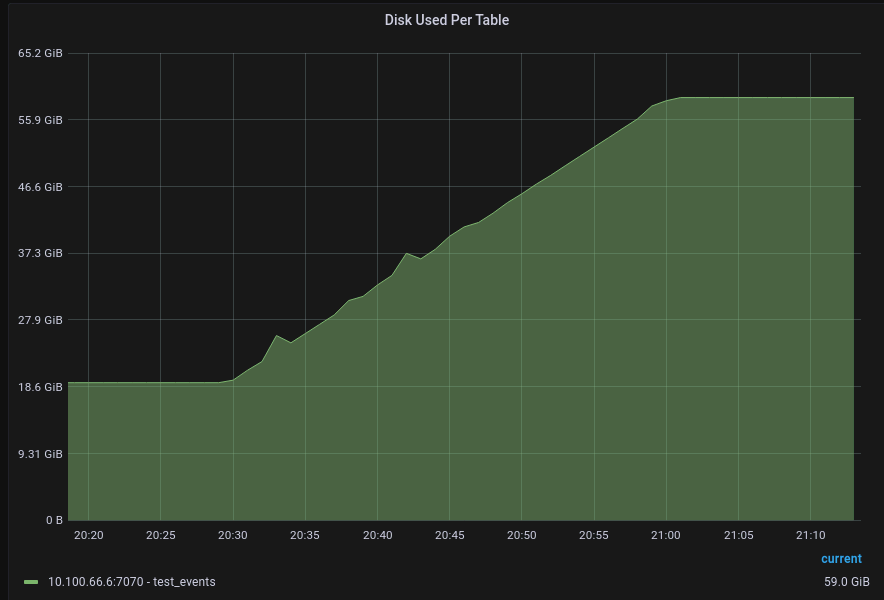
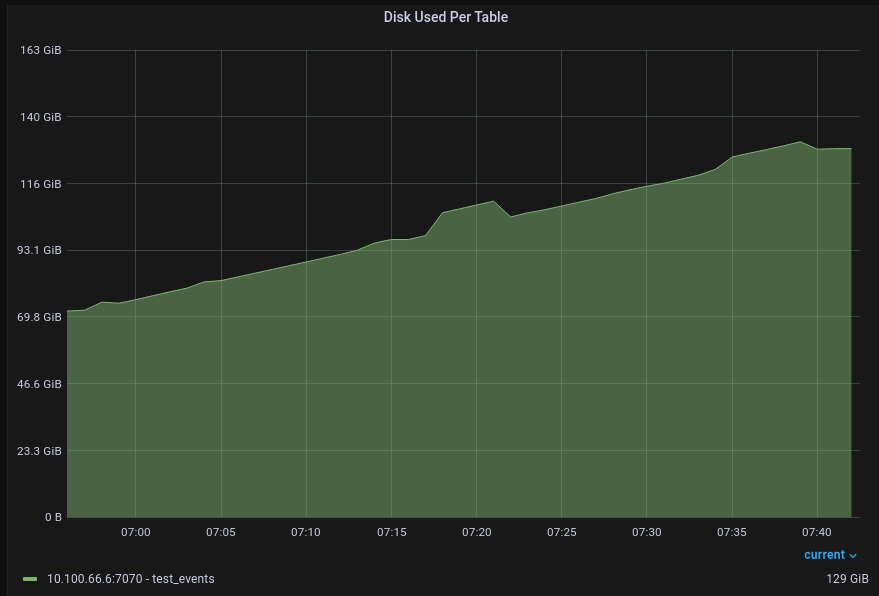
perftest.md

diff --git a/perftest/perftest.md b/perftest/perftest.md
@@ -38,24 +38,77 @@
 
 ## th2 components configuration (perftest cluster)
 
+scheme configuration:
+https://gitlab.exactpro.com/vivarium/th2/th2-internal-instances/th2-perf-schemas/-/commit/0b8dc314356aaa12816f0165408137ac24584781
+
 ### woodpecker
 + **Docker image**: ghcr.io/th2-net/th2-woodpecker-template:2.0.0-TH2-5204-estore-perf-9406747565-897a638
 + **Data format**: protobuf
 
 ### estore
-+ **Docker image**: ghcr.io/th2-net/th2-estore:5.7.0-external-executor-9384699236-c134f80
-+ **Cradle compression type**: LZ4
-+ **Store to tables**: test_events
+```yaml
+apiVersion: th2.exactpro.com/v2
+kind: Th2Estore
+metadata:
+  name: estore
+spec:
+  imageName: ghcr.io/th2-net/th2-estore
+  imageVersion: 5.7.0-dev
+  cradleManager:
+    prepareStorage: false
+    timeout: 5000
+    pageSize: 1000
+    composingServiceThreads: 4
+    counterPersistenceInterval: 15000
+    maxUncompressedTestEventSize: 0
+    maxUncompressedMessageBatchSize: 0
+    storeIndividualMessageSessions: false
+    compressionType: LZ4
+    bookRefreshIntervalMillis: 60000
+  customConfig:
+    maxTaskCount : 128
+    maxTaskDataSize : 536870912
+    maxRetryCount : 3
+  mqRouter:
+    prefetchCount: 1000
+  extendedSettings:
+    envVariables:
+      JAVA_TOOL_OPTIONS: >
+        -XX:+ExitOnOutOfMemoryError
+        -XX:+UseContainerSupport
+        -Dlog4j2.shutdownHookEnabled=false
+        -XX:MaxRAMPercentage=84.2
+        -XX:MaxMetaspaceSize=70M
+        -XX:CompressedClassSpaceSize=10M
+        -XX:ReservedCodeCacheSize=40M
+        -XX:MaxDirectMemorySize=50M
+        -Ddatastax-java-driver.advanced.connection.init-query-timeout="5000 milliseconds"
+        -Ddatastax-java-driver.basic.request.timeout="3 seconds"
+        -Dcom.sun.management.jmxremote
+        -Dcom.sun.management.jmxremote.port=1099
+        -Dcom.sun.management.jmxremote.rmi.port=1099
+        -Dcom.sun.management.jmxremote.ssl=false
+        -Dcom.sun.management.jmxremote.authenticate=false
+        -Dcom.sun.management.jmxremote.local.only=false
+        -Djava.rmi.server.hostname=127.0.0.1
+    resources:
+      limits:
+        cpu: 2500m
+        memory: 2000Mi
+      requests:
+        cpu: 1000m
+        memory: 100Mi
+```
 
 ## Test parameters
 | woodpeckers (n) | batch size (events) | event size (KB) | load duration (min) | page duration (days) |
 |-----------------|---------------------|-----------------|---------------------|----------------------|
-| 2               | 700                 | 1.37            | 30                  | 1                    |
+| 2               | 700                 | 1.37            | 40                  | 1                    |
 
 | component  | rate (event/sec) | rate (MB/sec) | Total data size (GB) | Total events (n) |
 |------------|------------------|---------------|----------------------|------------------|
-| woodpecker | 50,000           | 66.9          | 117.6                | 90,000,000       |
-| total x2   | 100,000          | 133.8         | 235.2                | 180,000,000      |
+| woodpecker | 50,000           | 67            | 157.0                | 90,000,000       |
+| total x2   | 100,000          | 134           | 314.1                | 180,000,000      |
 
 ## th2-estore metrics
 ![th2-estore metrics](estore_persist.png)
@@ -67,13 +120,12 @@
 
 |             | RabbitMQ | th2-estore | Cassandra |
 |-------------|----------|------------|-----------|
-| CPU (cores) | 0.6      | 2.0        |           |
-| RAM         | 495 MB   | 1.95 GB    | 3.8 GB    |
+| CPU (cores) | 0.6      | 2.3        |           |
+| RAM         | 433 MB   | 1.93 GB    | 3.8 GB    |
 
 ## Computation resources th2-estore metrics
-![th2-estore CPU](estore_cpu.png)
-![th2-estore RAM](estore_ram.png)
+![th2-estore resources](estore_res.png)
+![th2-estore heap usage](estore_heap.png)
 
 ## Computation resources RabbitMQ metrics
-![RabbitMQ CPU](rabbitmq_cpu.png)
-![RabbitMQ RAM](rabbitmq_ram.png)
+![RabbitMQ resources](rabbitmq_res.png)
